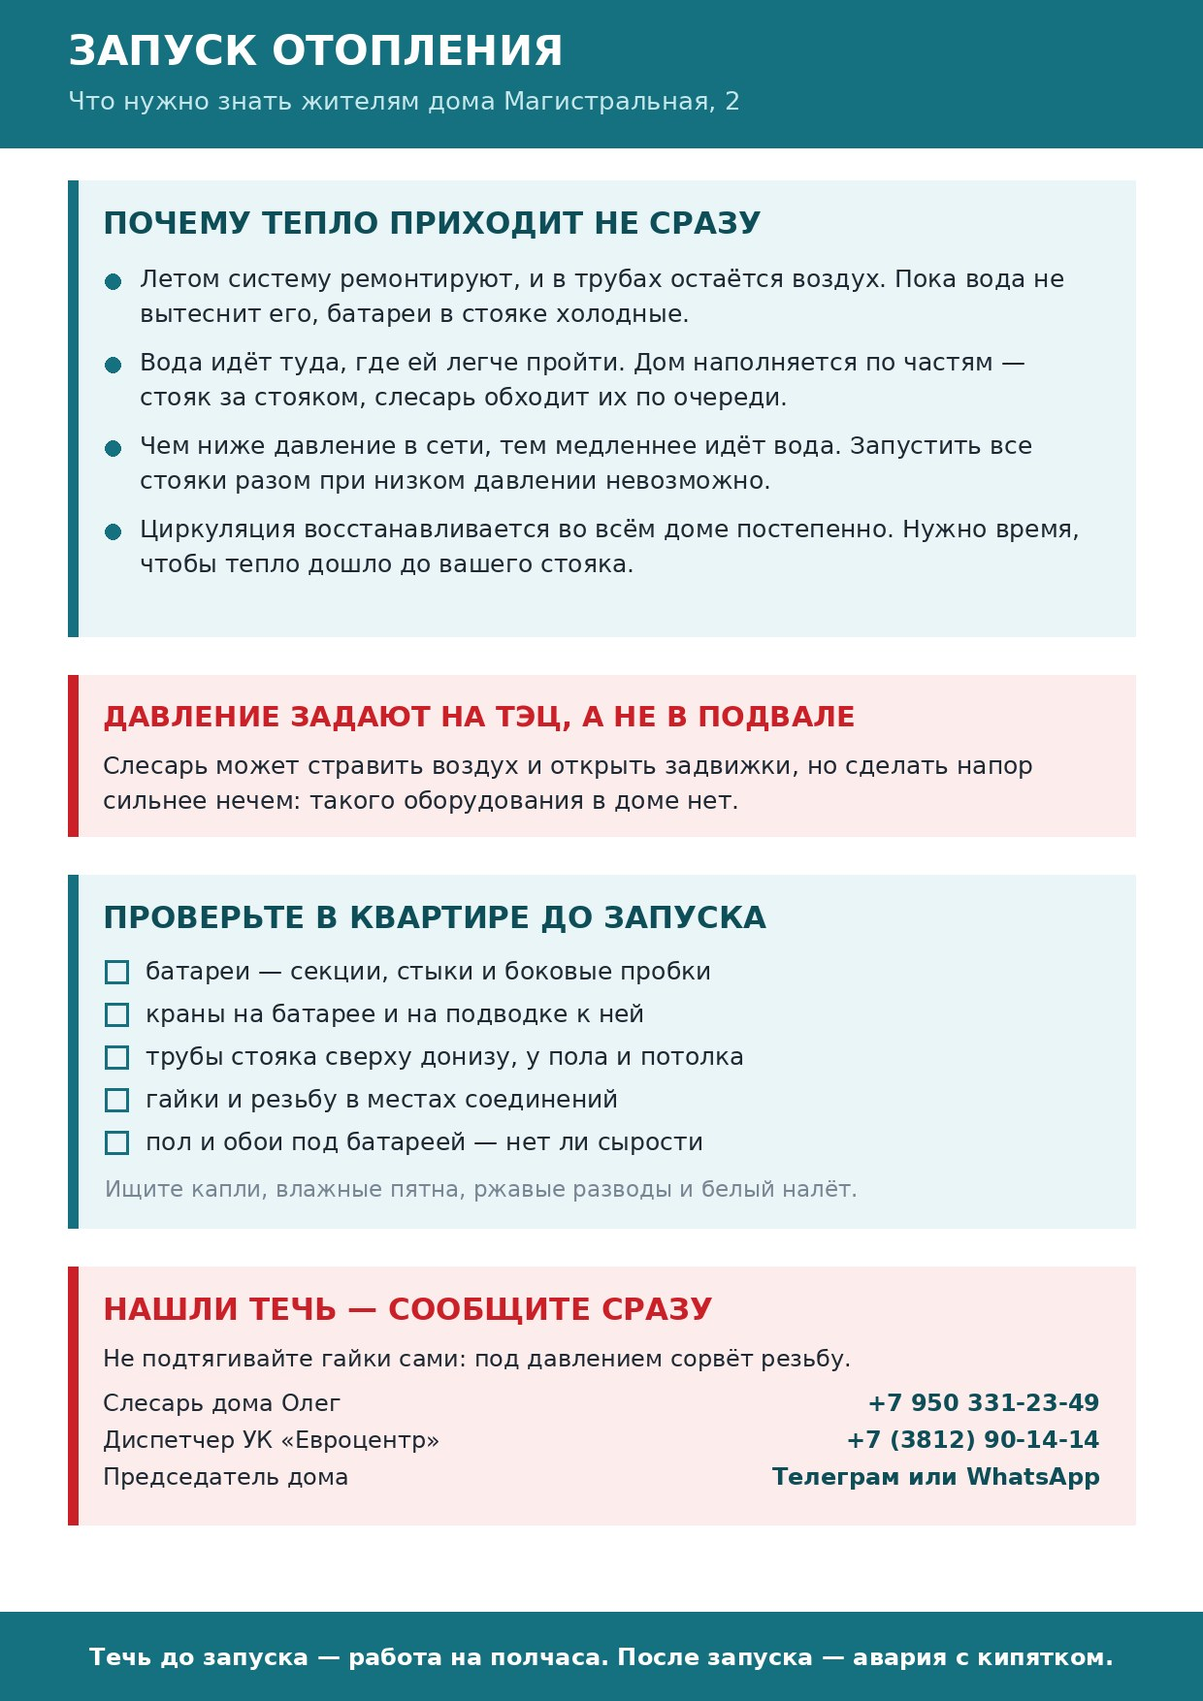
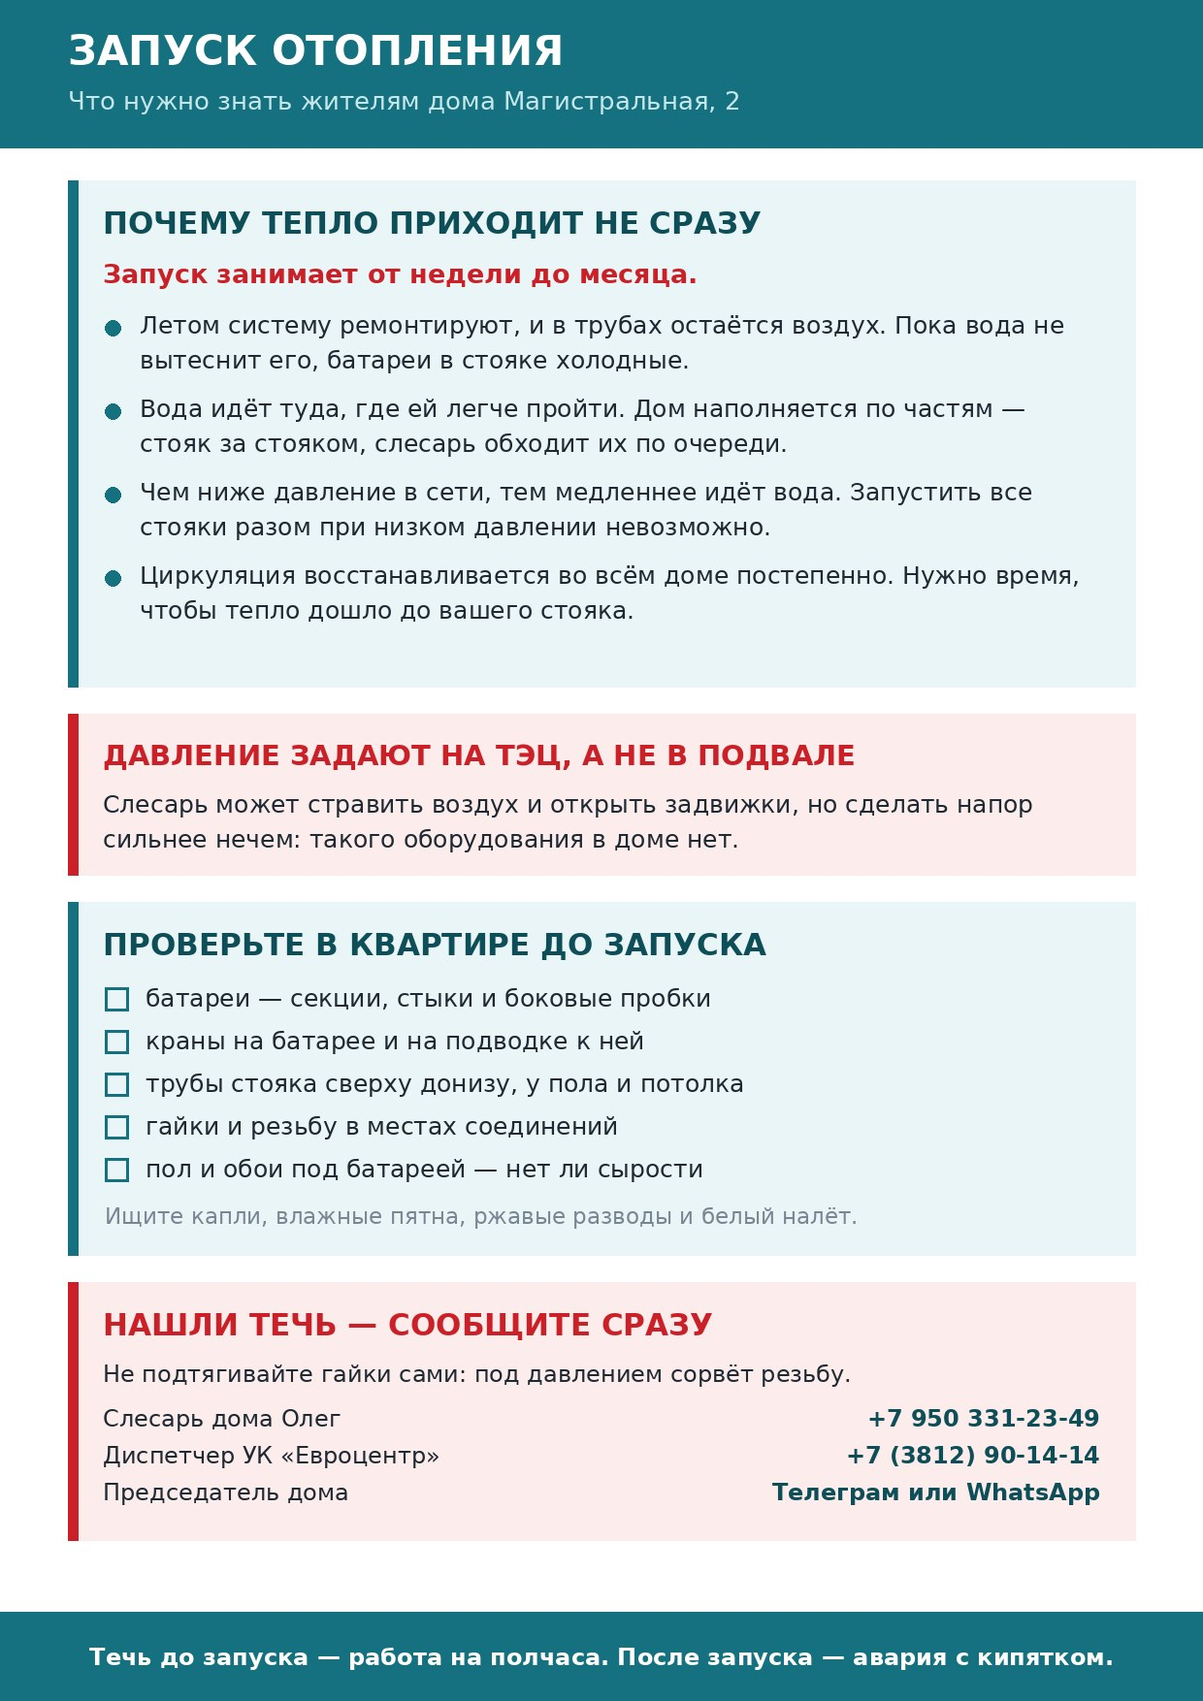
Памятки: сроки запуска отопления и плата за тепло
В памятку про запуск добавлен срок: от недели до месяца. Раньше его не
было, потому что мне его не называли, — теперь он есть и в тексте, и на
плакате, красной строкой под заголовком.

Новая памятка «Плата за отопление: почему сумма одинаковая и как её
уменьшить». В доме общедомовой счётчик тепла, платим равными долями
круглый год по среднему расходу за прошлый год, раз в год делают
перерасчёт по фактическому потреблению, результат приходит в квитанции
за январь или февраль. Схему сверил с постановлением Правительства РФ
№ 354 (п. 42(1)): там это и закреплено, корректировка — в I квартале.

Там же, почему экономия тепла — это общие деньги, и что можно сделать в
квартире: короткое проветривание вместо щели на весь день, регулировка
батарей кранами, не закрывать батареи шторами и мебелью.

К совету перекрывать краны добавлено предупреждение: прикрывать
постепенно, не держать перекрытой в морозы, а при сомнениях спросить
слесаря — на стояке без перемычки это мешает соседям. Председатель этого
не говорила, но совет без оговорки может обернуться сыростью на стенах и
ссорой с соседями.

Плакат по плате — отдельный лист: на лист про запуск это не влезло и
смешивать «что проверить перед запуском» с «почему столько в квитанции»
не стоит.

Claude-Session: https://claude.ai/code/session_01SicRex17FsgKWUCP5fdcWj

diff --git a/tests/test_faq.py b/tests/test_faq.py
@@ -212,6 +212,11 @@ def test_app_question_goes_to_the_right_memo(house, question, code):
     ("как подготовиться к запуску отопления", "otoplenie-podgotovka"),
     ("подтекает кран на батарее", "otoplenie-podgotovka"),
     ("течёт труба на стояке куда сообщить", "otoplenie-podgotovka"),
+    ("почему одинаковая сумма за отопление каждый месяц", "otoplenie-plata"),
+    ("что за перерасчёт в январе", "otoplenie-plata"),
+    ("почему платим за отопление летом", "otoplenie-plata"),
+    ("в квартире жарко что делать", "otoplenie-plata"),
+    ("можно ли перекрыть батарею", "otoplenie-plata"),
 ])
 def test_heating_question_goes_to_the_right_memo(house, question, code):
     """Про отопление спрашивают двумя способами — и ответы разные.
@@ -243,6 +248,7 @@ def test_posters_are_attached_to_the_memos_they_belong_to(house):
         "uk-evrocentr": "uk-evrocentr.jpg",
         "otoplenie-zapusk": "otoplenie.jpg",
         "otoplenie-podgotovka": "otoplenie.jpg",
+        "otoplenie-plata": "otoplenie-plata.jpg",
     }
     for code, image in expected.items():
         assert faq_service.by_code(house, code).image == image, code

diff --git a/content/faq/otoplenie-plata.md b/content/faq/otoplenie-plata.md
@@ -1,0 +1,34 @@
+---
+title: Плата за отопление: почему сумма одинаковая и как её уменьшить
+category: heating
+keywords: плата, платёж, платеж, платим, начисление, начисления, начисляют, сумма, одинаковая, квитанция, отопление, тепло, перерасчёт, перерасчет, корректировка, пересчитали, доначислили, вернули, январь, февраль, за лето, круглый год, общедомовой, прибор учёта, прибор учета, одпу, счётчик тепла, счетчик тепла, экономия, экономить, жарко, душно, парит, проветривание, проветривать, форточка, окно, перекрыть, перекрывать, прикрыть, кран, краны, батарея, батареи, регулировать, температура, горячие батареи, почему столько
+image: otoplenie-plata.jpg
+order: 30
+---
+<b>Почему сумма одинаковая каждый месяц</b>
+В нашем доме стоит общедомовой прибор учёта тепла — счётчик на весь дом. Платим мы не по факту каждого месяца, а равными долями круглый год, включая лето. Размер платежа считают по среднемесячному расходу дома за прошлый год.
+
+Так сделано, чтобы зимой не приходили огромные квитанции: расход холодных месяцев распределён на все двенадцать. Такой порядок установлен правилами — постановлением Правительства РФ № 354.
+
+<b>Раз в год делают перерасчёт</b>
+Считают, сколько дом потратил на самом деле по показаниям общедомового счётчика, и сравнивают с тем, что мы уже заплатили за год.
+
+• Дом потратил меньше, чем платили, — разницу вернут, сумма в квитанции уменьшится.
+• Потратил больше — разницу доначислят.
+
+Результат перерасчёта вы увидите отдельной строкой в квитанции за <b>январь или февраль</b>.
+
+Перерасчёт — это не новый платёж и не штраф, а сверка за год: сколько дом нагрел, за столько и платим.
+
+<b>Почему экономия тепла — это ваши деньги</b>
+Счётчик один на весь дом, и платим мы все вместе за то, что он насчитал. Чем меньше дом потратил за зиму, тем меньше будет перерасчёт и тем меньше станет платёж на следующий год. Тепло, выпущенное в форточку, оплачивает весь дом.
+
+<b>Что можно сделать в квартире</b>
+• <b>Жарко или душно — проветривайте коротко.</b> Откройте окно широко на несколько минут и закройте. Воздух сменится, а стены и мебель остыть не успеют. Окно, приоткрытое на весь день, выстуживает квартиру и тянет тепло из батарей без остановки.
+• <b>Регулируйте батареи кранами.</b> Жарко — прикройте кран на батарее, в комнате станет прохладнее, а дом потратит меньше. Это разумнее, чем открывать окно при горячих батареях.
+
+• <b>Не закрывайте батареи шторами и мебелью.</b> Тепло остаётся за ними, а в комнату не доходит — дом греет, вы мёрзнете, платят все.
+
+Прикрывайте кран постепенно и не держите батарею полностью перекрытой в морозы: комната выстынет, на стенах может появиться сырость. Не знаете, есть ли на вашей батарее перемычка, — спросите слесаря: на некоторых стояках полностью перекрытая батарея мешает соседям.
+
+Вопросы по начислениям — к бухгалтеру УК «Евроцентр», офис на проспекте Мира, 22. Телефоны и приёмные часы — в памятке «Телефоны и приложение управляющей компании».

diff --git a/content/faq/otoplenie-zapusk.md b/content/faq/otoplenie-zapusk.md
@@ -1,7 +1,7 @@
 ---
 title: Почему отопление приходит не во все квартиры сразу
 category: heating
-keywords: отопление, отопления, отопительный, тепло, тепла, теплее, батареи, батарея, батарей, радиатор, радиаторы, стояк, стояки, стояке, холодные, холодная, холодно, не греет, не греют, не топят, не включили, не включают, когда включат, когда дадут, запуск, запустили, давление, циркуляция, воздух, воздушная пробка, завоздушило, пробка, развоздушить, стравить, тэц, теплосети, сеть, слесарь, подвал, задвижка, соседи, у соседей тепло, неравномерно, по очереди, почему долго
+keywords: сколько ждать, долго, сроки, срок, когда будет, неделя, месяц, отопление, отопления, отопительный, тепло, тепла, теплее, батареи, батарея, батарей, радиатор, радиаторы, стояк, стояки, стояке, холодные, холодная, холодно, не греет, не греют, не топят, не включили, не включают, когда включат, когда дадут, запуск, запустили, давление, циркуляция, воздух, воздушная пробка, завоздушило, пробка, развоздушить, стравить, тэц, теплосети, сеть, слесарь, подвал, задвижка, соседи, у соседей тепло, неравномерно, по очереди, почему долго
 image: otoplenie.jpg
 order: 10
 ---
@@ -16,6 +16,9 @@ order: 10
 Скорость, с которой вода вытесняет воздух, зависит от давления в теплосети. Чем оно ниже, тем медленнее идёт вода и тем дольше дом выходит на режим.
 
 При низком давлении запустить все стояки одновременно физически невозможно. Дело не в том, что кто-то не хочет, — вода просто не продавливает воздух сразу везде. Нужно время, чтобы циркуляция восстановилась во всём доме.
+
+<b>Сколько это занимает</b>
+От недели до месяца. Точный срок заранее не назовёт никто: он зависит от давления в сети и от того, насколько быстро удаётся выгнать воздух из всех стояков.
 
 <b>Почему нельзя «прибавить давление»</b>
 Давление задаётся на ТЭЦ и в городских теплосетях — за пределами нашего дома. Слесарь в подвале им не управляет, и поднять его в доме нечем: такого оборудования здесь нет.

diff --git a/content/faq/README.md b/content/faq/README.md
@@ -63,6 +63,12 @@ order: 10
 Появится ИТП с насосом — памятку надо переписать, иначе бот будет
 объяснять жителям несуществующее ограничение.
 
+Текст `otoplenie-plata` описывает схему равномерной оплаты в течение
+года с ежегодной корректировкой: она же закреплена в постановлении
+Правительства РФ № 354 (п. 42(1)), корректировка делается в I квартале —
+у нас это квитанция за январь или февраль. Если дом перейдёт на оплату
+только в отопительный сезон, памятку надо переписать целиком.
+
 Проверяется тестом `tests/test_newcomer.py`: телефоны ворот и диспетчера
 должны остаться в текстах, а заготовок «ЗАПОЛНИТЬ» быть не должно.
 
@@ -77,6 +83,7 @@ order: 10
 | `kalitka-klyuchi.jpg` | «Информация для сведения» — Модус, калитка, ключи | `dostup-vo-dvor`, `klyuchi` |
 | `uk-evrocentr.jpg` | телефоны УК «Евроцентр» — собран по данным председателя | `uk-evrocentr` |
 | `otoplenie.jpg` | запуск отопления — собран по данным председателя | `otoplenie-zapusk`, `otoplenie-podgotovka` |
+| `otoplenie-plata.jpg` | плата за отопление — собран по данным председателя | `otoplenie-plata` |
 
 Один плакат можно указать в нескольких памятках: на «Информации для
 сведения» есть и про калитку, и про заказ ключей. К памятке `oplata`
